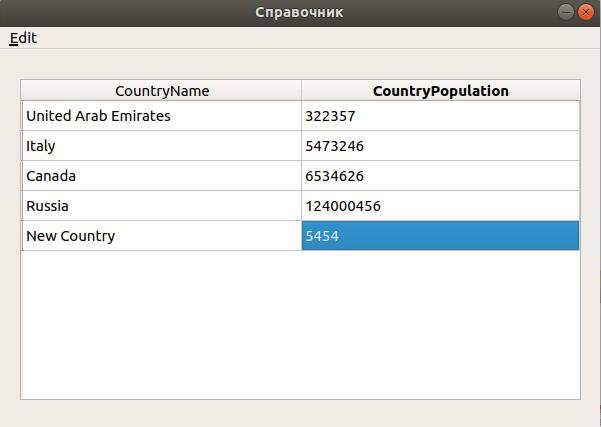
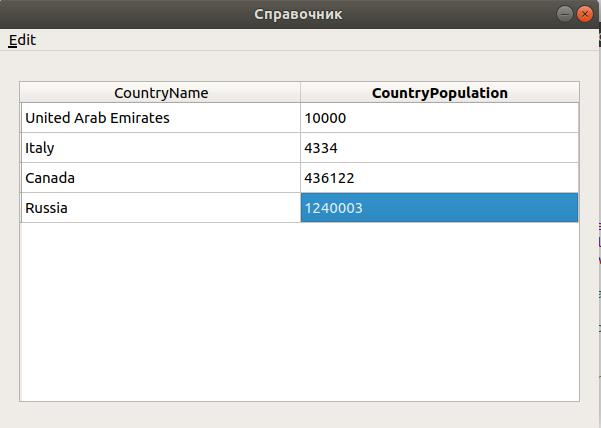
Update HomeWork.pro

Changed region(s): [[0.0, 0.0, 1.0, 1.0]]

diff --git a/src/mainwindow.cpp b/src/mainwindow.cpp
@@ -24,7 +24,7 @@ MainWindow::MainWindow(QWidget *parent) :
 }
 
 void MainWindow::setUpTable(){
-    td = new TableDataModel((QList<TableAttributable*> &) dataModel->getCompanyList(), this);
+    td = new TableDataModel((QList<TableAttributable*> &) dataModel->getCountryList(), this);
     ComboBoxItemDelegate* cbid = new ComboBoxItemDelegate(ui->tableView, dataModel, td);
     td->setDelegateForNestedAttributes(ui->tableView, cbid);
     ui->tableView->setModel(td);

diff --git a/README.md b/README.md
@@ -9,7 +9,7 @@
 все ```Q_PROPERTY``` значения данного класса которые могут быть конвертированы в ```QSTRING``` или являются ссылками на ```TableAttributable``` (в этом случае будет показан ```ключевой-аттрибут``` вложенного объекта -  первый аттрибут имеющий в названии ```name``` -  т.е. для компании в колонке ``` CompanyCountry``` будет показан ```CountryName```).
 
 Справочник поддерживает добавление, удаление, и изменение ячеек таблицы. В случае 
-если ячейка является ссылкой на ```TableAttributable``` то в качестве измененного объекта будет предложен выпадающий список с листом из названий primary-аттрибута объекта (свойство-имени).
+если ячейка является ссылкой на ```TableAttributable``` то в качестве измененного объекта будет предложен выпадающий список с листом из названий primary-аттрибута объектов (свойство-имени).
 
 Также справочник поддерживает конвертацию таблицы (массива ```TableAttributable*```) в  html-файл, все свойства конвертируемые в ```QSTRING``` будут показаны в полях таблица, а все поля являющиеся ссылками на ```TableAttributable``` будут показаны во всплывающм окне при клике на ряд
 
